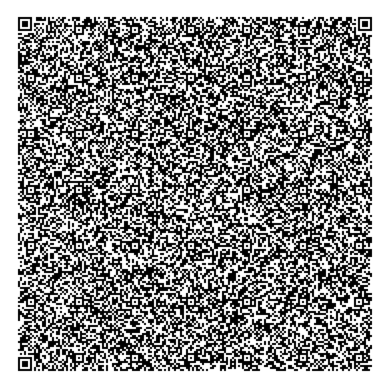
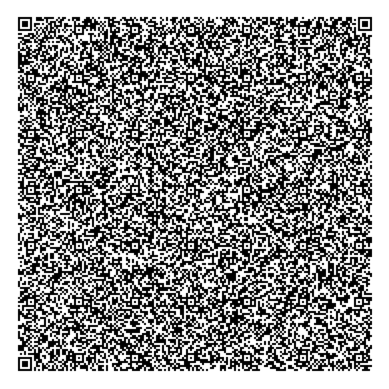
Name fix on certificate

diff --git a/Generate_QR_Credential.py b/Generate_QR_Credential.py
@@ -69,7 +69,7 @@ def main():
 
     # Create user data
     user_img = open(user_image_filename, "rb").read()
-    user_name = "John Doe"
+    user_name = "Alice Doe"
     user_date = "16052020-16082020"
     user_CID = "0x1fc60e1a4e238ac6cce9d79097a268af"
     user_certData = CertificateData(user_img, user_name, user_date, user_CID)

diff --git a/README.md b/README.md
@@ -11,7 +11,7 @@ Example credential:
 
 ![example credential](user_qr.png "Example ImmuneSecure QR code")
 
-Which comprises the following example image (145x170 Greyscale), the name "John Doe", the validity period "16052020-16082020", the CID 0x1fc60e1a4e238ac6cce9d79097a268af and a valid 512-bit ECDSA signature.
+Which comprises the following example image (145x170 Greyscale), the name "Alice Doe", the validity period "16052020-16082020", the CID 0x1fc60e1a4e238ac6cce9d79097a268af and a valid 512-bit ECDSA signature.
 
 Example image (generated by [StyleGAN](https://github.com/NVlabs/stylegan)):
 
